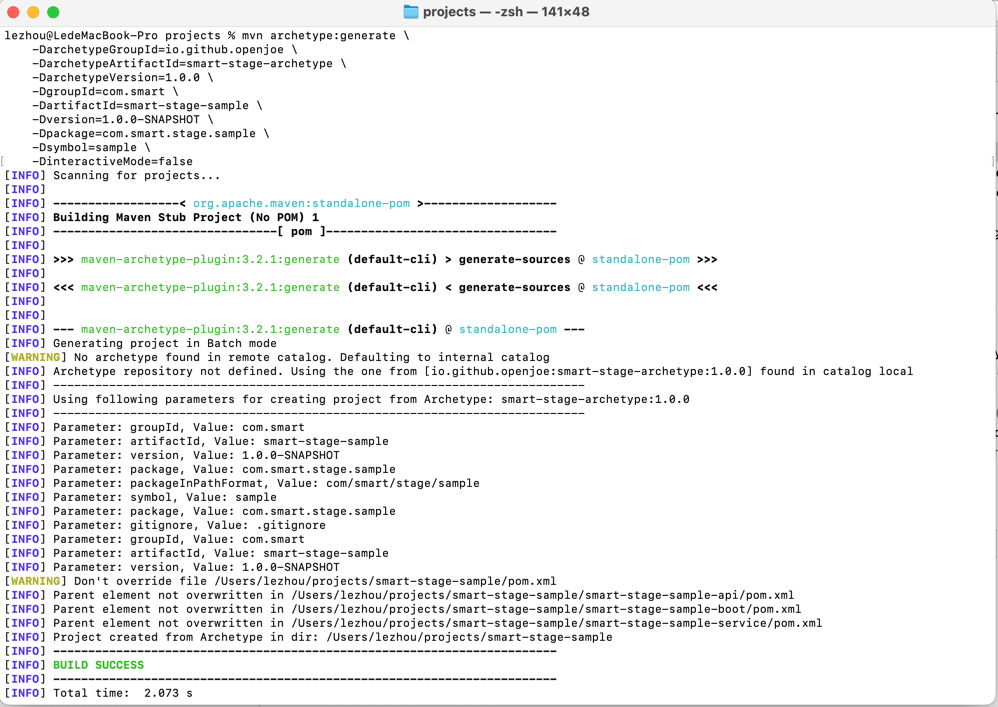
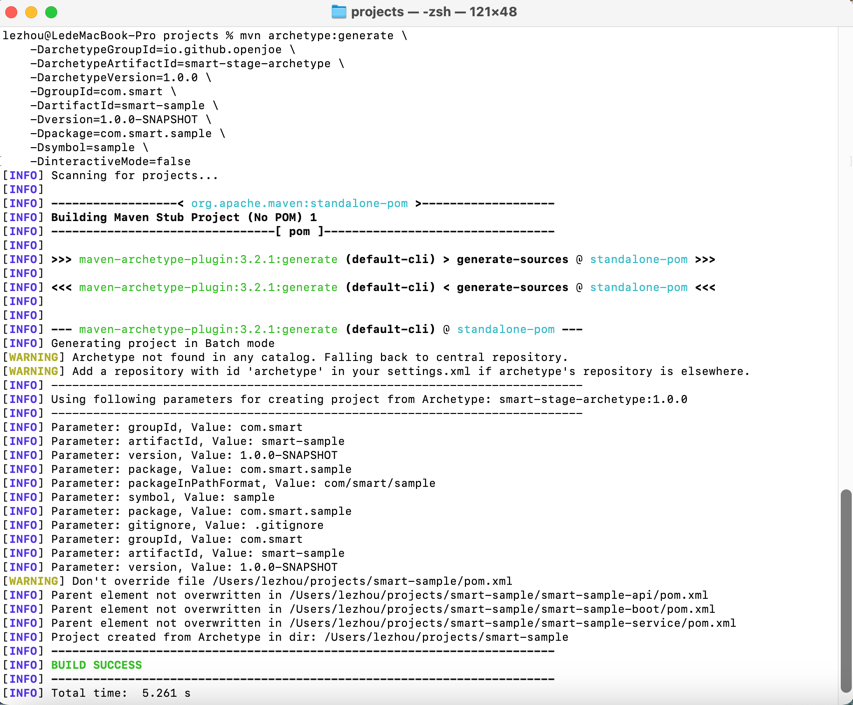
文档更新

diff --git a/README.md b/README.md
@@ -78,13 +78,13 @@ mvn archetype:generate \
 -DgroupId=&lt;my-groupId&gt;: 指定应用的组ID，如com.smart
 </li>
 <li>
--DartifactId=&lt;my-artifactId&gt;: 指定应用的artifact ID，如smart-stage-sample
+-DartifactId=&lt;my-artifactId&gt;: 指定应用的artifact ID，如smart-sample
 </li>
 <li>
 -Dversion=&lt;my-version&gt;: 指定应用的版本号，如1.0.0-SNAPSHOT
 </li>
 <li>
--Dpackage=&lt;my-package&gt;: 指定应用的Java包名，如com.smart.stage.sample
+-Dpackage=&lt;my-package&gt;: 指定应用的Java包名，如com.smart.sample
 </li>
 <li>
 -Dsymbol=&lt;my-symbol&gt;: 指定应用的简称，它用于请求路径前缀和插件资源目录的命名，最好用纯英文小写，如sample
@@ -108,7 +108,7 @@ mvn archetype:generate \
 
 ### 应用示例依赖关系
 
-![](images/smart-stage-sample.png)
+![](images/smart-sample.png)
 
 ## 接入指南
 
@@ -276,9 +276,9 @@ demo.code=Code must not be null
 smart:
   stage:
     swagger:
-      base-packages: openjoe.smart.stage.sample.controller #路径扫描,支持逗号分隔，不支持*模糊匹配
-      title: smart-stage-sample
-      description: smart-stage-sample描述
+      base-packages: com.smart.sample.controller #路径扫描,支持逗号分隔，不支持*模糊匹配
+      title: smart-sample
+      description: smart-sample描述
       version: 1.0.0-SNAPSHOT
 ```
 
